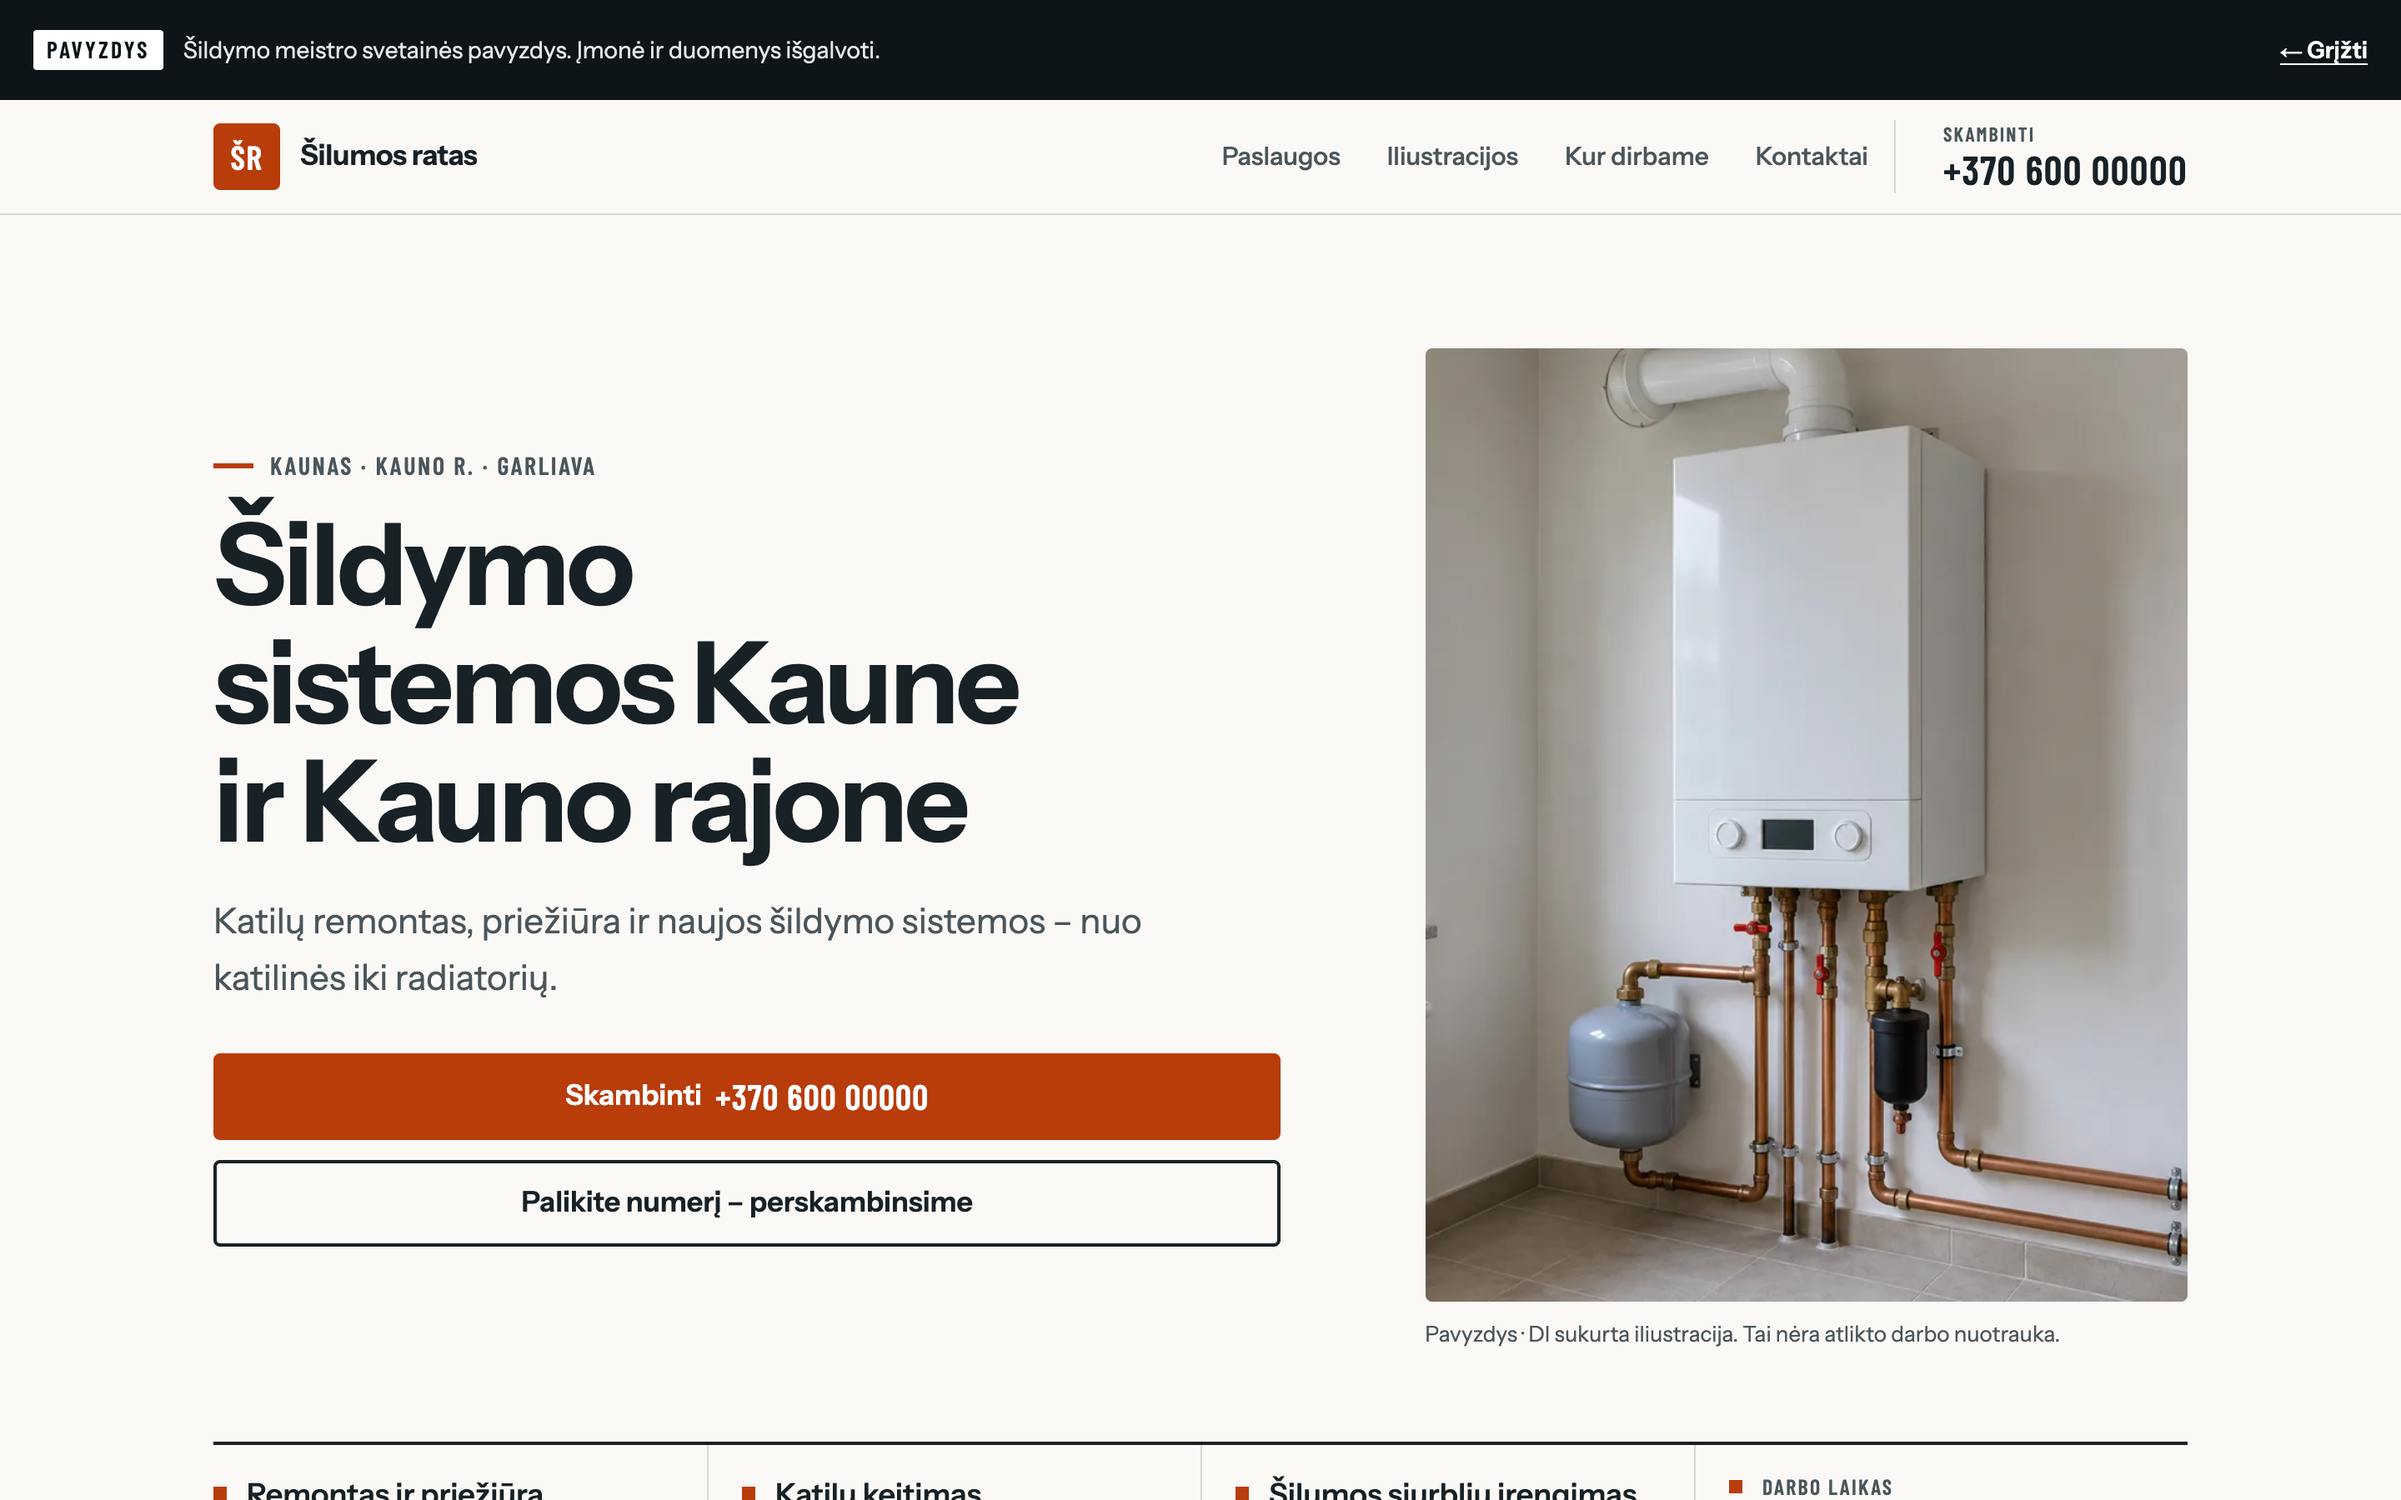
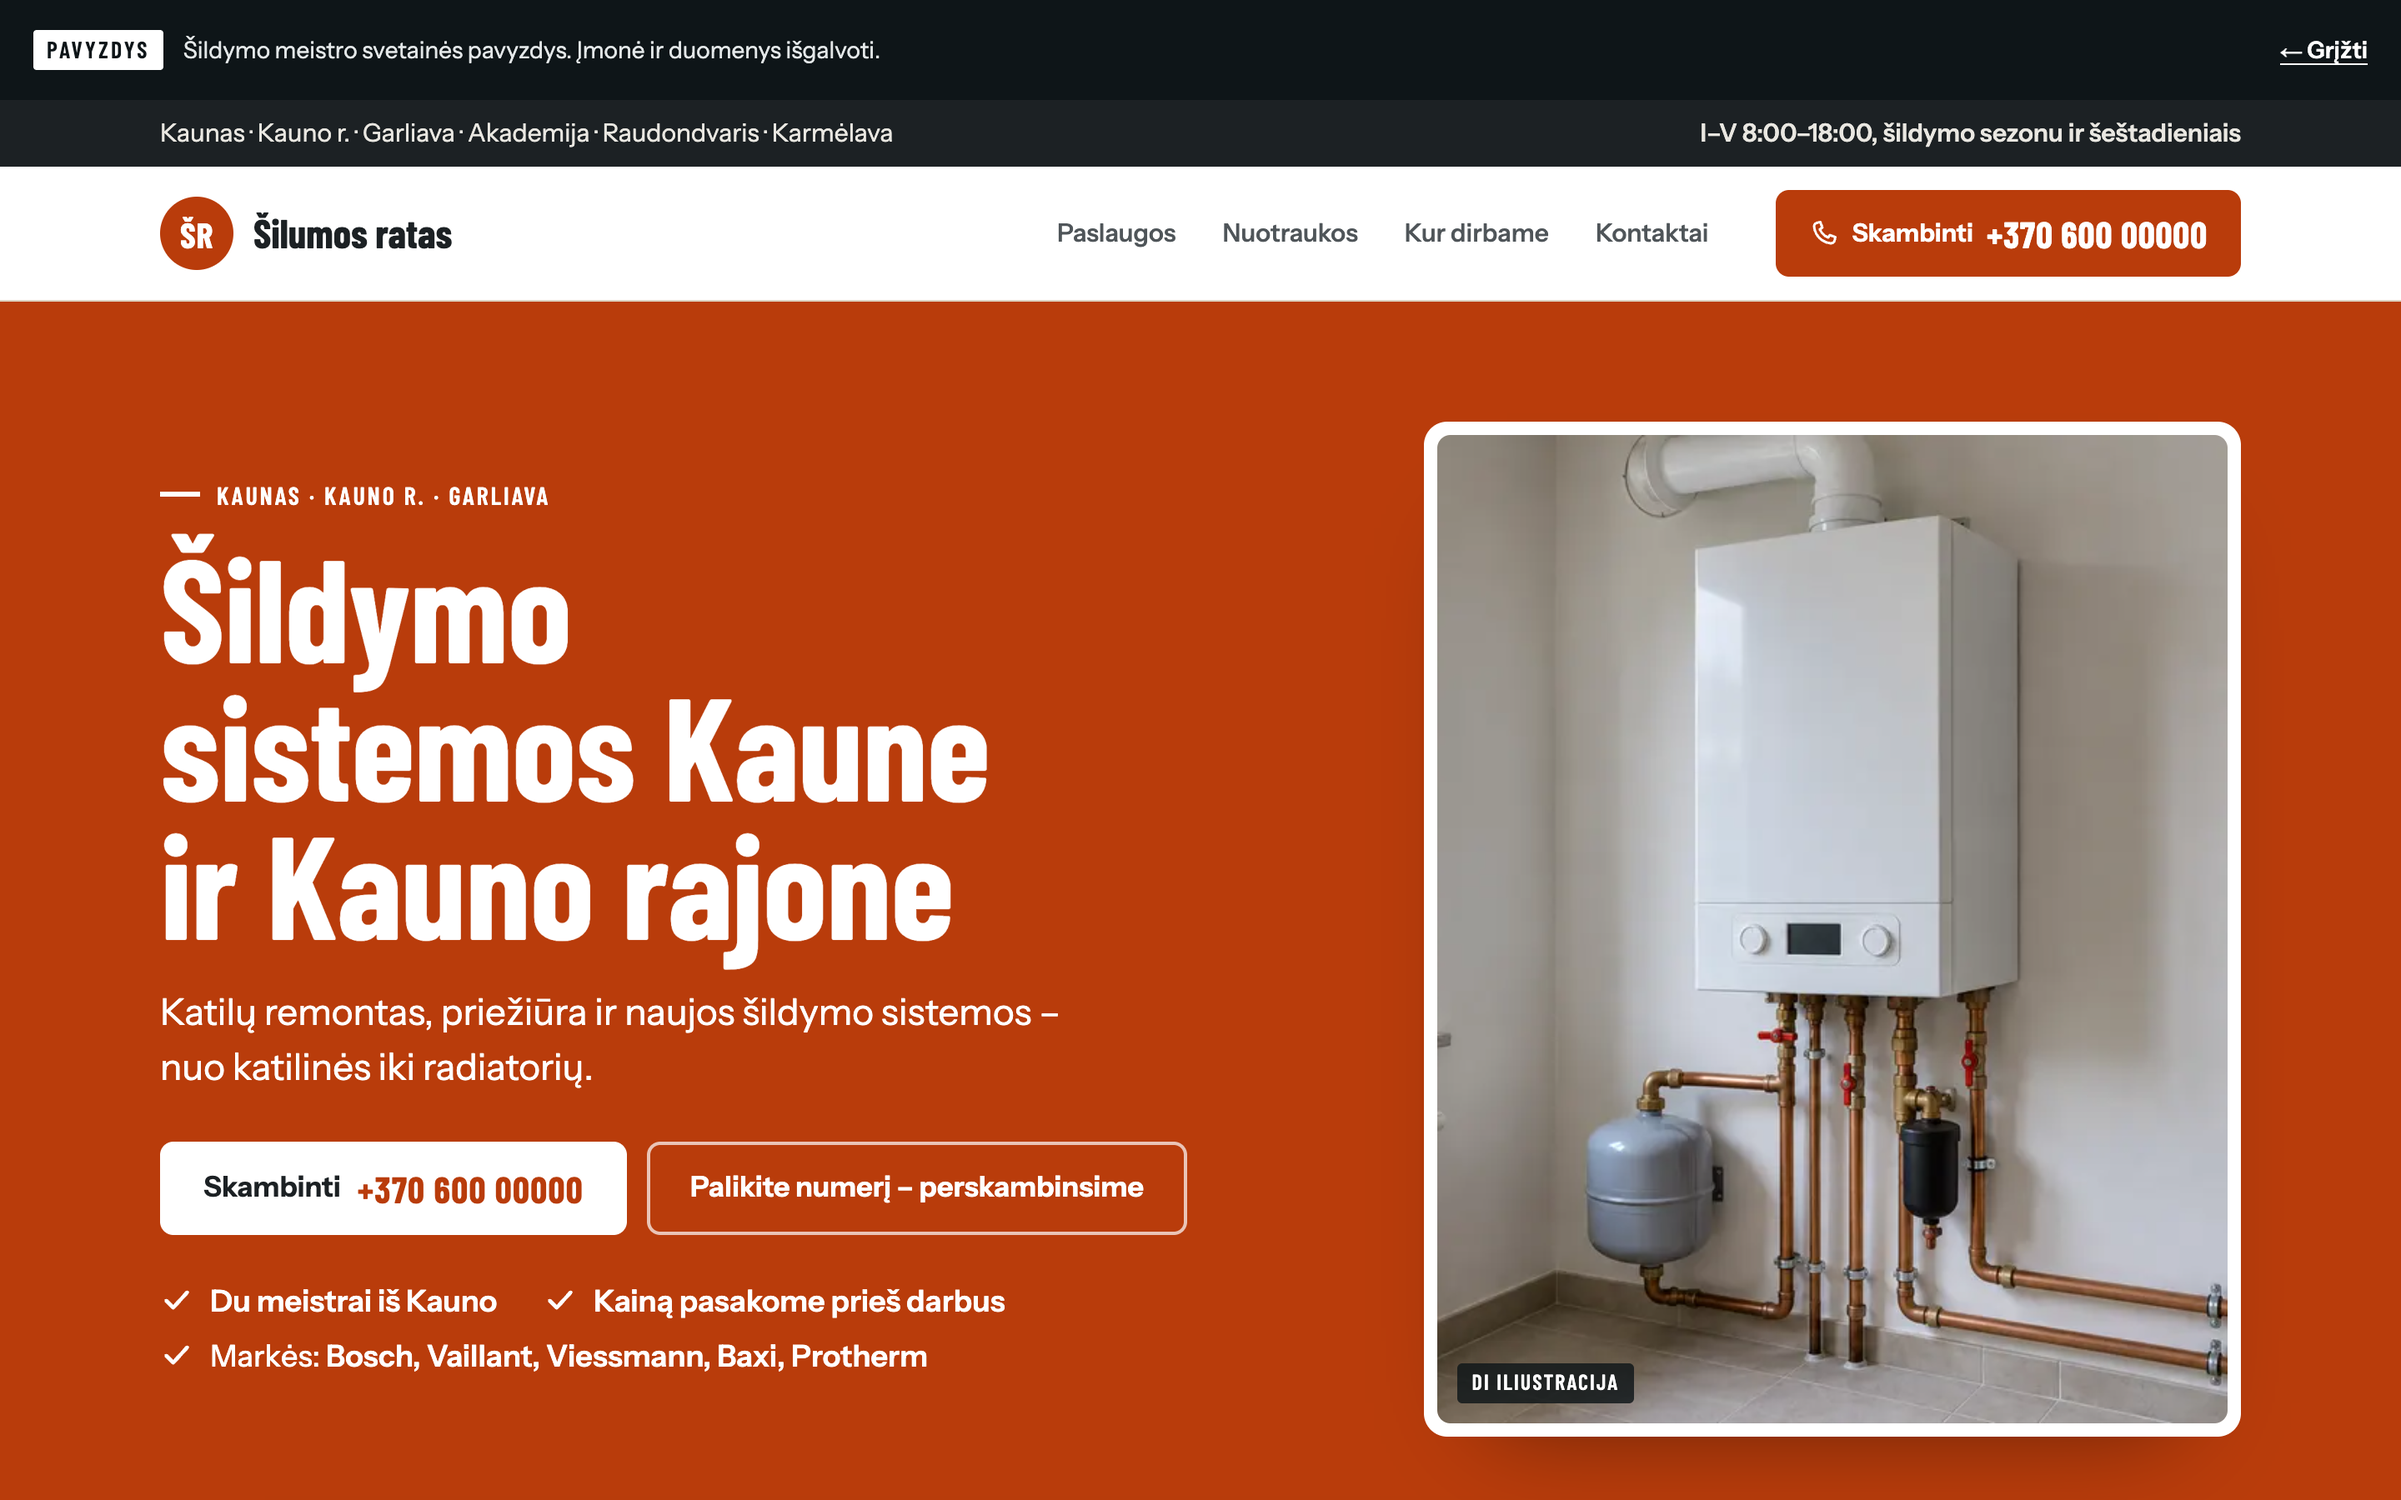
feat(v4): hero phone + Pavyzdys showcase show the heating demo v2
Re-captured /pavyzdys/sildymas at 60eaedc (demo sources clean) and
re-composited it onto the A1 flat lay without the example banner;
showcase captures refreshed. Provenance and rebuild steps updated.

diff --git a/src/assets/hero/PROVENANCE.md b/src/assets/hero/PROVENANCE.md
@@ -1,6 +1,13 @@
 # Hero and showcase images: provenance
 
-The existing site hero and its historical receipt (`toolbelt-heating.png`, `RECEIPT.json`) remain unchanged. The v2 candidates below are for review; no page imports them.
+**Site hero since 2026-10-16: `a1-knolling-finished.png`** (concept A1, picked by Jarvis): AI-generated top-down flat lay of heating tools (ChatGPT Images via Codex; source `originals/a1-knolling-proportions-r2.png` in main Drive `Personal Everything/research/2026-10-16-hero-concepts/`, SHA-256 `ea816ae4…e8a0`), with a real headless-Chrome capture of our heating demo `/pavyzdys/sildymas` composited onto the phone by composite v2. The demo's example banner is cropped by its measured height (the capture is shot taller by the same amount), so the screen keeps 390 × 722 CSS px proportions. `RECEIPT.json` (written by `scripts/showcase-assets.mjs`) pins the capture commit, hashes and geometry. Shown as an illustration with a caption, never as a client.
+
+Rebuild after any demo change, from the integration worktree with a clean demo template:
+1. `npm run build && npx astro preview --host 127.0.0.1 --port <port>`
+2. `node scripts/showcase-capture.mjs http://127.0.0.1:<port> client-sites/<capture-dir>`
+3. `node scripts/showcase-assets.mjs client-sites/<capture-dir> "<Drive>/Personal Everything/research/2026-10-16-hero-concepts/originals/a1-knolling-proportions-r2.png"` (refreshes `../showcase/*.png` too)
+
+Not used by any page any more (kept for review history; cleanup candidates): `toolbelt-heating.png`, `toolbelt-heating-v2*`, `b2-frontal-belt-finished*`, `RECEIPT-v2.json` if present.
 
 ## Composite v2 — 2026-10-16
 
